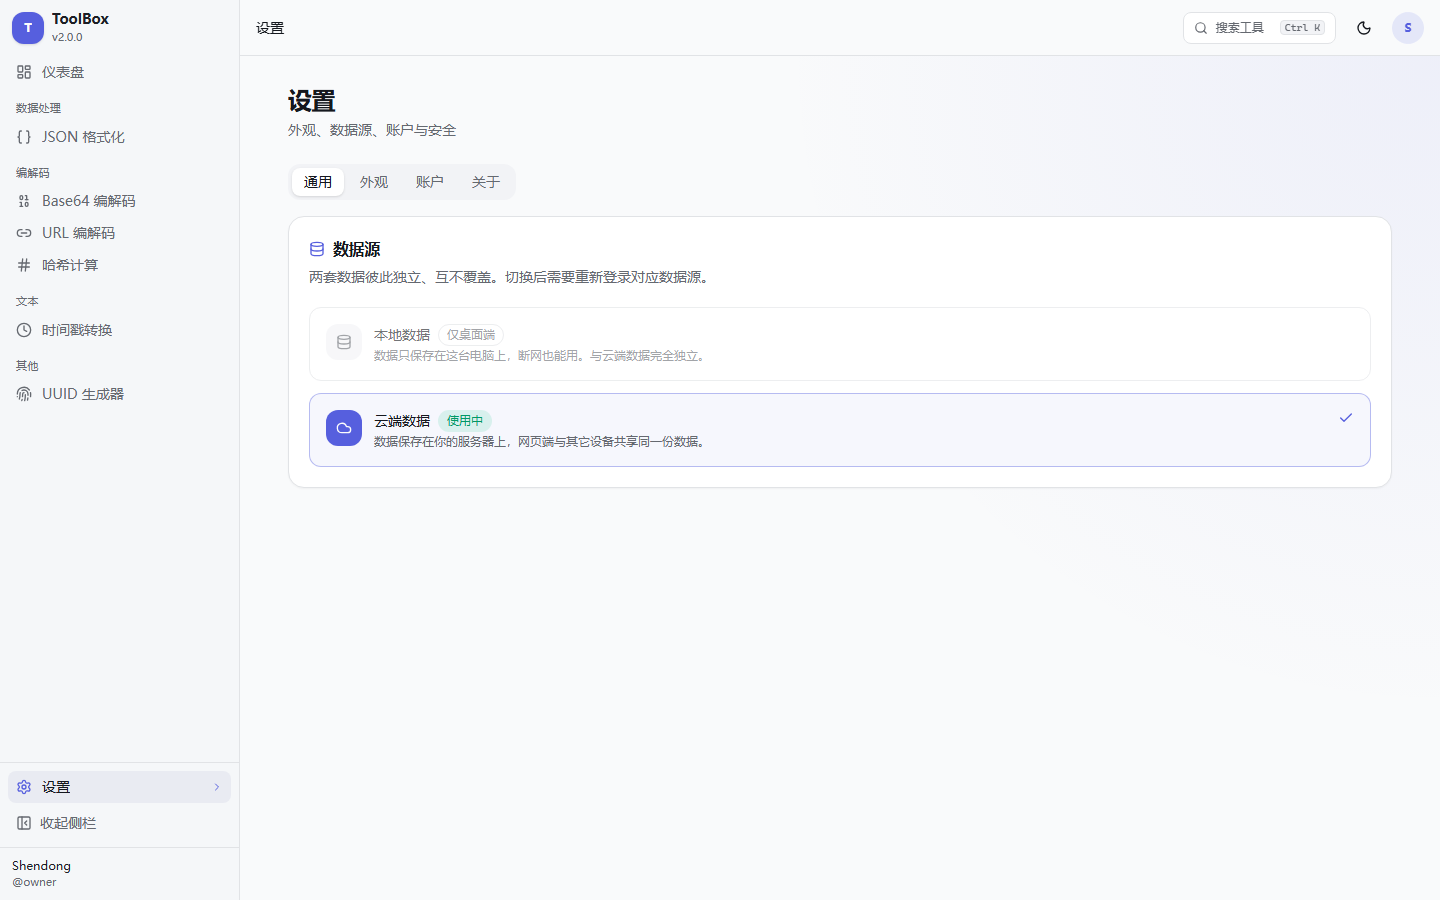
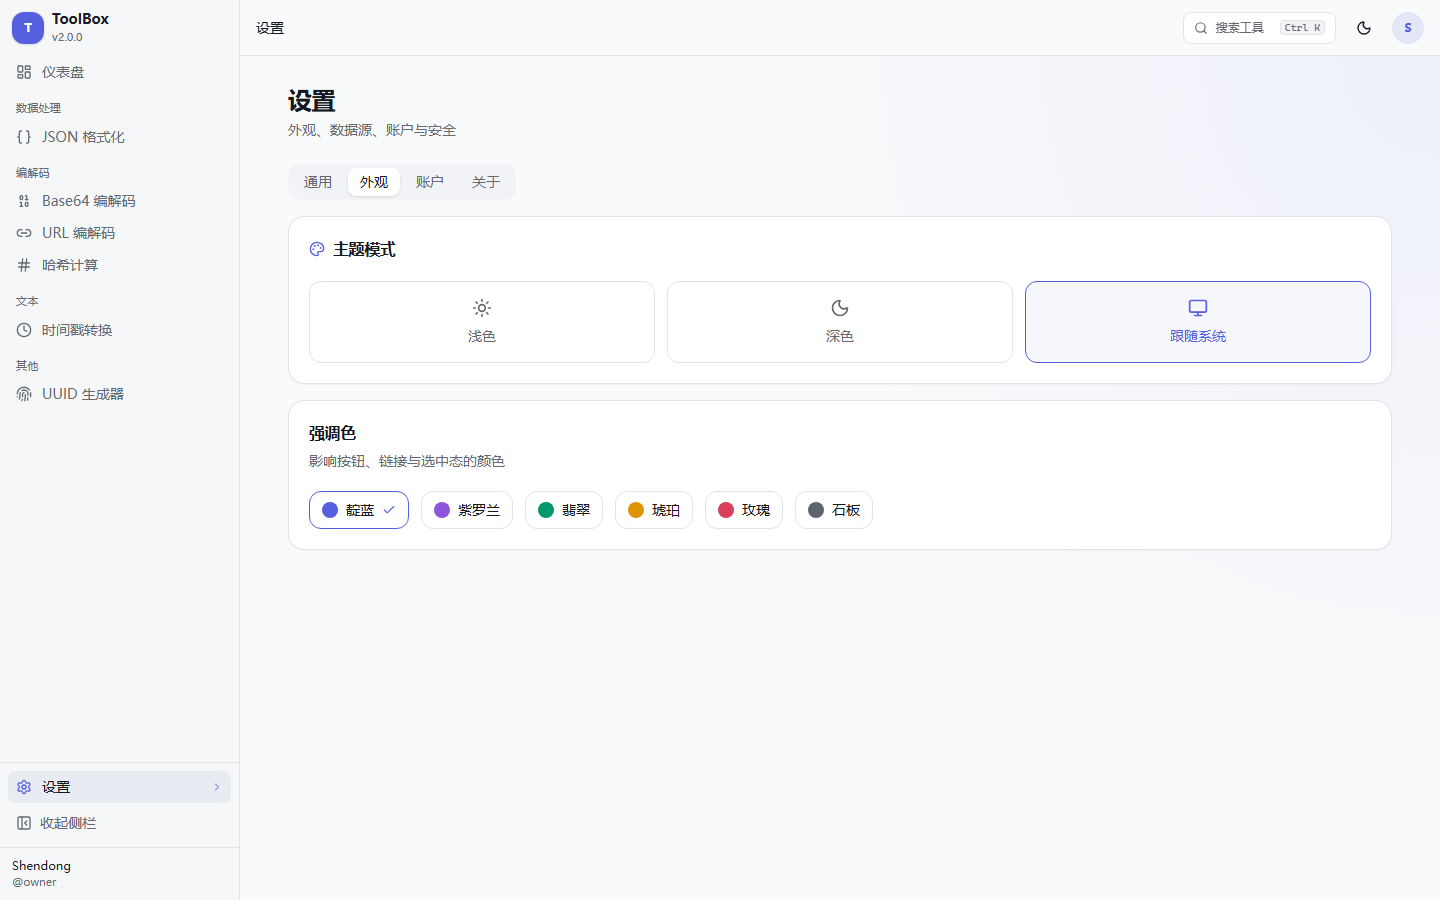
feat(web): 设置页支持 ?tab= 直达；文档截图刷新；服务端改为 esbuild 打包

diff --git a/apps/web/src/routes/_app/settings.tsx b/apps/web/src/routes/_app/settings.tsx
@@ -1,4 +1,5 @@
 import { createFileRoute, useNavigate } from "@tanstack/react-router";
+import { z } from "zod";
 import { useState } from "react";
 import { useMutation, useQuery, useQueryClient } from "@tanstack/react-query";
 import { Check, Cloud, Database, LogOut, Monitor, Moon, Palette, Sun } from "lucide-react";
@@ -21,7 +22,13 @@ import { Separator } from "@/components/ui/separator";
 import { Switch } from "@/components/ui/switch";
 import { Tabs, TabsContent, TabsList, TabsTrigger } from "@/components/ui/tabs";
 
+const tabSchema = z.enum(["general", "appearance", "account", "about"]).catch("general");
+
 export const Route = createFileRoute("/_app/settings")({
+  // 支持 /settings?tab=appearance 直达，也便于截图与文档引用
+  validateSearch: (search: Record<string, unknown>) => ({
+    tab: tabSchema.parse(search.tab),
+  }),
   component: SettingsPage,
 });
 
@@ -35,6 +42,9 @@ const accents: { id: Accent; label: string; color: string }[] = [
 ];
 
 function SettingsPage() {
+  const { tab } = Route.useSearch();
+  const navigate = useNavigate();
+
   return (
     <div className="space-y-6">
       <header>
@@ -42,7 +52,12 @@ function SettingsPage() {
         <p className="mt-1 text-sm text-muted-foreground">外观、数据源、账户与安全</p>
       </header>
 
-      <Tabs defaultValue="general">
+      <Tabs
+        value={tab}
+        onValueChange={(value) =>
+          void navigate({ to: "/settings", search: { tab: value as "general" } })
+        }
+      >
         <TabsList>
           <TabsTrigger value="general">通用</TabsTrigger>
           <TabsTrigger value="appearance">外观</TabsTrigger>

diff --git a/apps/web/src/components/shell/topbar.tsx b/apps/web/src/components/shell/topbar.tsx
@@ -90,11 +90,15 @@ export function Topbar({ onOpenCommand }: { onOpenCommand: () => void }) {
             {user?.displayName ?? user?.username}
           </DropdownMenuLabel>
           <DropdownMenuSeparator />
-          <DropdownMenuItem onSelect={() => void navigate({ to: "/settings" })}>
+          <DropdownMenuItem
+            onSelect={() => void navigate({ to: "/settings", search: { tab: "account" } })}
+          >
             <User className="h-4 w-4" />
             账户与安全
           </DropdownMenuItem>
-          <DropdownMenuItem onSelect={() => void navigate({ to: "/settings" })}>
+          <DropdownMenuItem
+            onSelect={() => void navigate({ to: "/settings", search: { tab: "general" } })}
+          >
             <Settings className="h-4 w-4" />
             设置
           </DropdownMenuItem>
